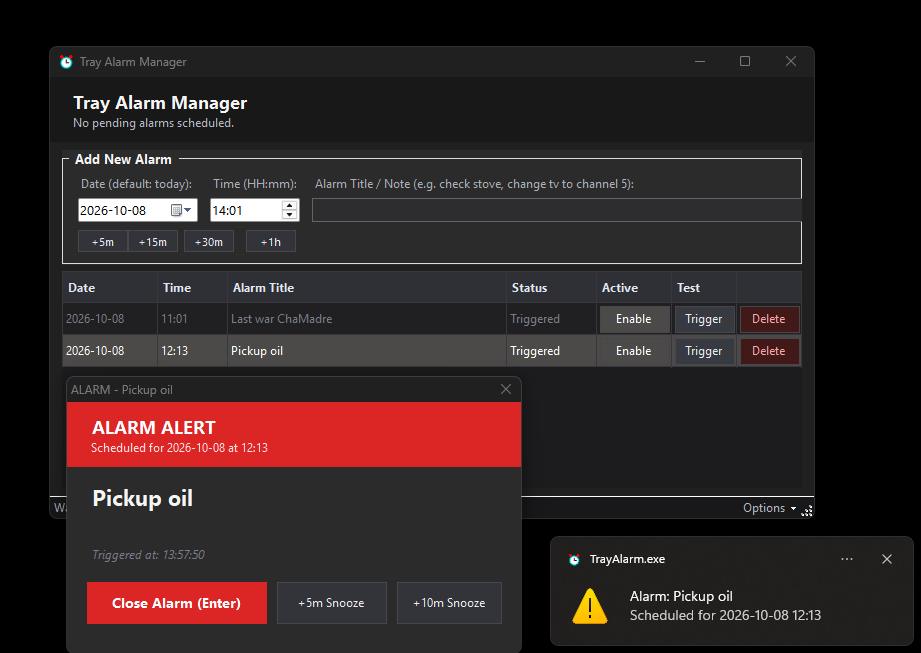
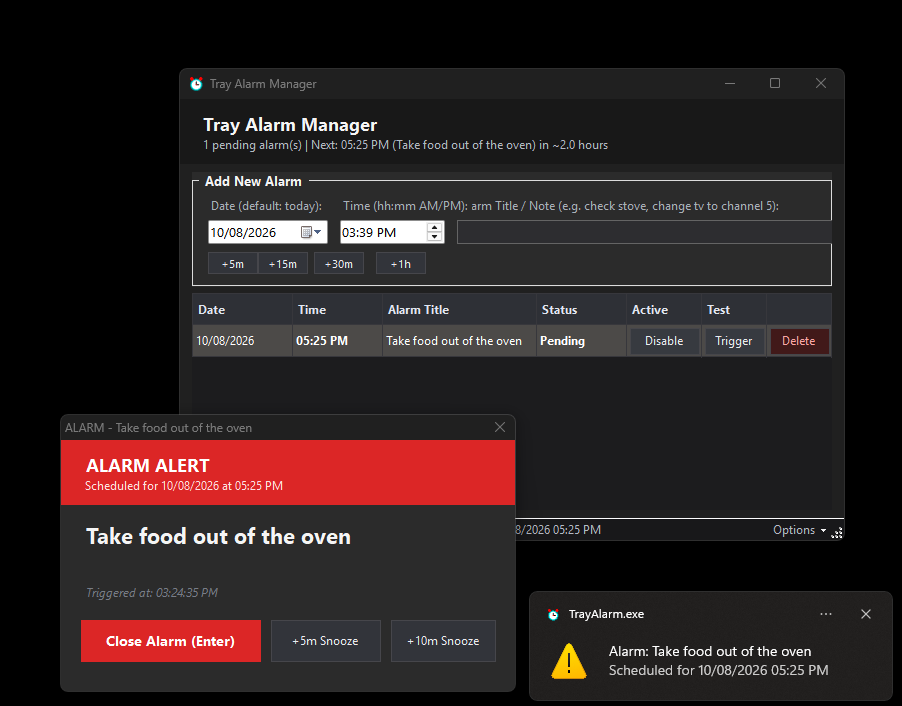
Changed time format to follow mm/dd/yyyy and time hh:mm AM/PM

Changed region(s): [[0.031, 0.0613, 0.9933, 1.0], [0.4346, 0.8882, 0.5277, 0.9495]]

diff --git a/tests/TestRunner.cs b/tests/TestRunner.cs
@@ -26,6 +26,7 @@ namespace TrayAlarm.Tests
             RunTest("SaveRoundTrip", TestSaveRoundTrip);
             RunTest("TriggerEvaluationLogic", TestTriggerEvaluationLogic);
             RunTest("SnoozeCalculation", TestSnoozeCalculation);
+            RunTest("DateFormattingAnd12HourAmPm", TestDateFormattingAnd12HourAmPm);
 
             // System Theme Tests
             RunTest("ThemeManagerDefaultModeAndPalette", TestThemeManagerDefaultModeAndPalette);
@@ -215,10 +216,63 @@ namespace TrayAlarm.Tests
 
                 Assert(loaded.Count == 2, "Expected 2 items after save and reload");
                 Assert(loaded[0].Title == "check stove, carefully", "Expected exact title with comma");
-                Assert(loaded[0].TimeString == "08:32", "Expected time 08:32");
+                Assert(loaded[0].TimeString == "08:32 AM", "Expected time 08:32 AM");
+                Assert(loaded[0].DateString == DateTime.Today.ToString("MM/dd/yyyy"), "Expected MM/dd/yyyy date format");
                 Assert(loaded[0].Status == "Pending", "Expected status Pending");
                 Assert(loaded[1].Title == "change tv to channel 5", "Expected title");
+                Assert(loaded[1].TimeString == "08:49 AM", "Expected time 08:49 AM");
                 Assert(loaded[1].Status == "Triggered", "Expected status Triggered");
+            }
+            finally
+            {
+                if (File.Exists(tempFile)) File.Delete(tempFile);
+            }
+        }
+
+        static void TestDateFormattingAnd12HourAmPm()
+        {
+            // 1. Date format verification (MM/dd/yyyy)
+            var alarmDate1 = new AlarmItem(new DateTime(2026, 10, 8), new TimeSpan(8, 32, 0), "Date test");
+            Assert(alarmDate1.DateString == "10/08/2026", "Expected 10/08/2026, got " + alarmDate1.DateString);
+
+            var alarmDate2 = new AlarmItem(new DateTime(2026, 1, 5), new TimeSpan(8, 32, 0), "Date test single digit");
+            Assert(alarmDate2.DateString == "01/05/2026", "Expected 01/05/2026, got " + alarmDate2.DateString);
+
+            // 2. Time format verification (hh:mm AM/PM)
+            var morning = new AlarmItem(DateTime.Today, new TimeSpan(8, 32, 0), "Morning");
+            Assert(morning.TimeString == "08:32 AM", "Expected 08:32 AM, got " + morning.TimeString);
+
+            var noon = new AlarmItem(DateTime.Today, new TimeSpan(12, 0, 0), "Noon");
+            Assert(noon.TimeString == "12:00 PM", "Expected 12:00 PM, got " + noon.TimeString);
+
+            var afternoon = new AlarmItem(DateTime.Today, new TimeSpan(13, 45, 0), "Afternoon");
+            Assert(afternoon.TimeString == "01:45 PM", "Expected 01:45 PM, got " + afternoon.TimeString);
+
+            var evening = new AlarmItem(DateTime.Today, new TimeSpan(20, 49, 0), "Evening");
+            Assert(evening.TimeString == "08:49 PM", "Expected 08:49 PM, got " + evening.TimeString);
+
+            var midnight = new AlarmItem(DateTime.Today, new TimeSpan(0, 0, 0), "Midnight");
+            Assert(midnight.TimeString == "12:00 AM", "Expected 12:00 AM, got " + midnight.TimeString);
+
+            var midnightFive = new AlarmItem(DateTime.Today, new TimeSpan(0, 5, 0), "Midnight 5");
+            Assert(midnightFive.TimeString == "12:05 AM", "Expected 12:05 AM, got " + midnightFive.TimeString);
+
+            // 3. Round-trip serialization and tolerant parsing of MM/dd/yyyy and hh:mm AM/PM
+            string tempFile = Path.GetTempFileName();
+            try
+            {
+                File.WriteAllText(tempFile, "Date,Time,Title,Status\n10/08/2026,08:32 AM,Morning stretch,Pending\n10/08/2026,08:49 PM,Evening film,Pending\n");
+                var repo = new CsvRepository(tempFile);
+                var loaded = repo.Load();
+
+                Assert(loaded.Count == 2, "Expected 2 items");
+                Assert(loaded[0].DateString == "10/08/2026", "Expected 10/08/2026");
+                Assert(loaded[0].TimeString == "08:32 AM", "Expected 08:32 AM");
+                Assert(loaded[0].Time == new TimeSpan(8, 32, 0), "Expected 8:32:00 TimeSpan");
+
+                Assert(loaded[1].DateString == "10/08/2026", "Expected 10/08/2026");
+                Assert(loaded[1].TimeString == "08:49 PM", "Expected 08:49 PM");
+                Assert(loaded[1].Time == new TimeSpan(20, 49, 0), "Expected 20:49:00 TimeSpan");
             }
             finally
             {

diff --git a/src/MainForm.cs b/src/MainForm.cs
@@ -205,7 +205,7 @@ namespace TrayAlarm
             _dtpDate = new DateTimePicker
             {
                 Format = DateTimePickerFormat.Custom,
-                CustomFormat = "yyyy-MM-dd",
+                CustomFormat = "MM/dd/yyyy",
                 Value = DateTime.Today,
                 Font = new Font("Segoe UI", 9.5f),
                 Location = new Point(16, 48),
@@ -214,7 +214,7 @@ namespace TrayAlarm
 
             _lblTime = new Label
             {
-                Text = "Time (HH:mm):",
+                Text = "Time (hh:mm AM/PM):",
                 Font = new Font("Segoe UI", 8.5f, FontStyle.Regular),
                 ForeColor = Color.FromArgb(71, 85, 105),
                 Location = new Point(148, 26),
@@ -224,12 +224,12 @@ namespace TrayAlarm
             _dtpTime = new DateTimePicker
             {
                 Format = DateTimePickerFormat.Custom,
-                CustomFormat = "HH:mm",
+                CustomFormat = "hh:mm tt",
                 ShowUpDown = true,
                 Value = DateTime.Now.AddMinutes(5),
                 Font = new Font("Segoe UI", 9.5f),
                 Location = new Point(148, 48),
-                Width = 90
+                Width = 105
             };
 
             _lblAlarmTitle = new Label
@@ -237,15 +237,15 @@ namespace TrayAlarm
                 Text = "Alarm Title / Note (e.g. check stove, change tv to channel 5):",
                 Font = new Font("Segoe UI", 8.5f, FontStyle.Regular),
                 ForeColor = Color.FromArgb(71, 85, 105),
-                Location = new Point(250, 26),
+                Location = new Point(265, 26),
                 AutoSize = true
             };
 
             _txtTitle = new TextBox
             {
                 Font = new Font("Segoe UI", 9.5f),
-                Location = new Point(250, 48),
-                Width = 280,
+                Location = new Point(265, 48),
+                Width = 265,
                 Anchor = AnchorStyles.Top | AnchorStyles.Left | AnchorStyles.Right
             };
             _txtTitle.KeyDown += (s, e) =>
@@ -411,7 +411,7 @@ namespace TrayAlarm
             {
                 Name = "ColDate",
                 HeaderText = "Date",
-                Width = 95,
+                Width = 100,
                 ReadOnly = true
             });
 
@@ -419,7 +419,7 @@ namespace TrayAlarm
             {
                 Name = "ColTime",
                 HeaderText = "Time",
-                Width = 70,
+                Width = 90,
                 ReadOnly = true
             });
 
@@ -1102,7 +1102,7 @@ namespace TrayAlarm
 
         private void UpdateStatus(string message)
         {
-            _statusLabel.Text = string.Format("[{0}] {1}", DateTime.Now.ToString("HH:mm:ss"), message);
+            _statusLabel.Text = string.Format("[{0}] {1}", DateTime.Now.ToString("hh:mm:ss tt"), message);
         }
 
         private void OpenCsvInNotepad()

diff --git a/src/AlarmItem.cs b/src/AlarmItem.cs
@@ -1,4 +1,5 @@
 using System;
+using System.Globalization;
 
 namespace TrayAlarm
 {
@@ -56,12 +57,18 @@ namespace TrayAlarm
 
         public string DateString
         {
-            get { return Date.ToString("yyyy-MM-dd"); }
+            get { return Date.ToString("MM/dd/yyyy", CultureInfo.InvariantCulture); }
         }
 
         public string TimeString
         {
-            get { return string.Format("{0:D2}:{1:D2}", Time.Hours, Time.Minutes); }
+            get
+            {
+                int h = Math.Abs(Time.Hours) % 24;
+                int m = Math.Abs(Time.Minutes) % 60;
+                var dt = new DateTime(2000, 1, 1, h, m, 0);
+                return dt.ToString("hh:mm tt", CultureInfo.InvariantCulture);
+            }
         }
 
         public AlarmItem Clone()

diff --git a/src/CsvRepository.cs b/src/CsvRepository.cs
@@ -300,13 +300,18 @@ namespace TrayAlarm
             {
                 "h:mm tt",
                 "hh:mm tt",
+                "h:mmtt",
+                "hh:mmtt",
                 "H:mm",
                 "HH:mm",
                 "h:mm:ss tt",
                 "hh:mm:ss tt",
+                "h:mm:sstt",
+                "hh:mm:sstt",
                 "H:mm:ss",
                 "HH:mm:ss",
                 "h:m tt",
+                "h:mtt",
                 "H:m"
             };
 

diff --git a/src/AlarmAlertForm.cs b/src/AlarmAlertForm.cs
@@ -135,7 +135,7 @@ namespace TrayAlarm
 
             _lblCurrentTime = new Label
             {
-                Text = "Triggered at: " + DateTime.Now.ToString("HH:mm:ss"),
+                Text = "Triggered at: " + DateTime.Now.ToString("hh:mm:ss tt"),
                 Font = new Font("Segoe UI", 9f, FontStyle.Italic),
                 ForeColor = Color.FromArgb(100, 116, 139),
                 Location = new Point(22, 145),

diff --git a/README.md b/README.md
@@ -4,12 +4,7 @@ A lightweight, portable Windows system tray application for managing customizabl
 
 ![App Screenshot](assets/screenshot.png)
 
-## Project Highlights
-- **Tray Integration**: Automatically hides in the system tray, allowing it to run in the background.
-- **Automatic Refresh**: Detects changes to `alarms.csv` and updates automatically.
-- **User-Friendly Interface**: Includes a sleek GUI and handy "Quick-Add" buttons for common durations (+5m, +10m, +30m, +1h).
-- **Lightweight & Standalone**: No external dependencies or extra installations required.
-
+## Key Features
 
 - **System Tray Resident:** Sits quietly in the Windows notification area / system tray. Closing the window minimizes it to the tray so alarms never get accidentally killed.
 - **Customizable Alarms with Title & Time:** Schedule alarms such as `08:32 check stove` or `08:49 change tv to channel 5`.
@@ -17,6 +12,7 @@ A lightweight, portable Windows system tray application for managing customizabl
 - **Top-Most Alarm Alert Pop-Up:** When an alarm time is reached, an alert window immediately pops up on top of all windows with an audible chime, showing the alarm details and buttons to **Close / Dismiss** or **Snooze (+5m, +10m)**. Pressing **Enter** or **Esc** also dismisses the alarm instantly.
 - **Portable & Zero-Dependency:** Compiles to a single standalone `TrayAlarm.exe` (~36 KB) requiring no installers, Node.js, or Python. Runs out-of-the-box on Windows 10 and Windows 11.
 - **Hand-Editable `alarms.csv`:** Stores all alarms in `alarms.csv` in the same directory. You can edit this file in Notepad or Excel while the app is running; the app automatically detects file changes and reloads immediately!
+- **System Theme Colors & Dark Mode Support:** Automatically detects and applies Windows system colors and light/dark mode. Integrates with modern Windows 11 UI elements for a native feel. You can also manually switch between *System Default*, *Light Mode*, and *Dark Mode* from the Options menu or tray icon.
 - **Quick Preset Buttons:** Quick `+5m`, `+15m`, `+30m`, and `+1h` shortcut buttons to set alarms rapidly.
 
 ---
@@ -32,8 +28,8 @@ A lightweight, portable Windows system tray application for managing customizabl
 
 ## Setting Alarms via the GUI
 
-1. **Date:** Defaults to today's date. Click the dropdown to pick a future date if needed.
-2. **Time:** Enter hours and minutes (`HH:mm`), or click the preset buttons (`+5m`, `+15m`, `+30m`, `+1h`) to quickly offset from right now.
+1. **Date:** Defaults to today's date (`MM/dd/yyyy`). Click the dropdown to pick a future date if needed.
+2. **Time:** Enter time in 12-hour format (`hh:mm AM/PM`), or click the preset buttons (`+5m`, `+15m`, `+30m`, `+1h`) to quickly offset from right now.
 3. **Title:** Type your reminder (e.g., `check stove`, `change tv to channel 5`).
 4. Click **`+ Add Alarm`** or press **Enter**.
 
@@ -47,8 +43,8 @@ The application saves alarms to `alarms.csv` in the same folder. You can open an
 
 ```csv
 Date,Time,Title,Status
-2026-10-07,08:32,check stove,Pending
-2026-10-07,08:49,change tv to channel 5,Pending
+10/08/2026,08:32 AM,check stove,Pending
+10/08/2026,08:49 PM,change tv to channel 5,Pending
 ```
 
 ### Tolerant Parser Rules
@@ -107,7 +103,7 @@ The script uses Windows' built-in C# compiler (`csc.exe`) targeting .NET Framewo
 To run the unit and parsing tests:
 
 ```powershell
-& "C:\Windows\Microsoft.NET\Framework64\v4.0.30319\csc.exe" /nologo /target:exe /out:tests\TestRunner.exe /r:System.dll,System.Core.dll,System.Drawing.dll,System.Windows.Forms.dll,System.Data.dll src\AlarmItem.cs src\CsvRepository.cs tests\TestRunner.cs
+& "C:\Windows\Microsoft.NET\Framework64\v4.0.30319\csc.exe" /nologo /target:exe /out:tests\TestRunner.exe /r:System.dll,System.Core.dll,System.Drawing.dll,System.Windows.Forms.dll,System.Data.dll src\AlarmItem.cs src\CsvRepository.cs src\ThemeManager.cs tests\TestRunner.cs
 .\tests\TestRunner.exe
 Remove-Item tests\TestRunner.exe
 ```
